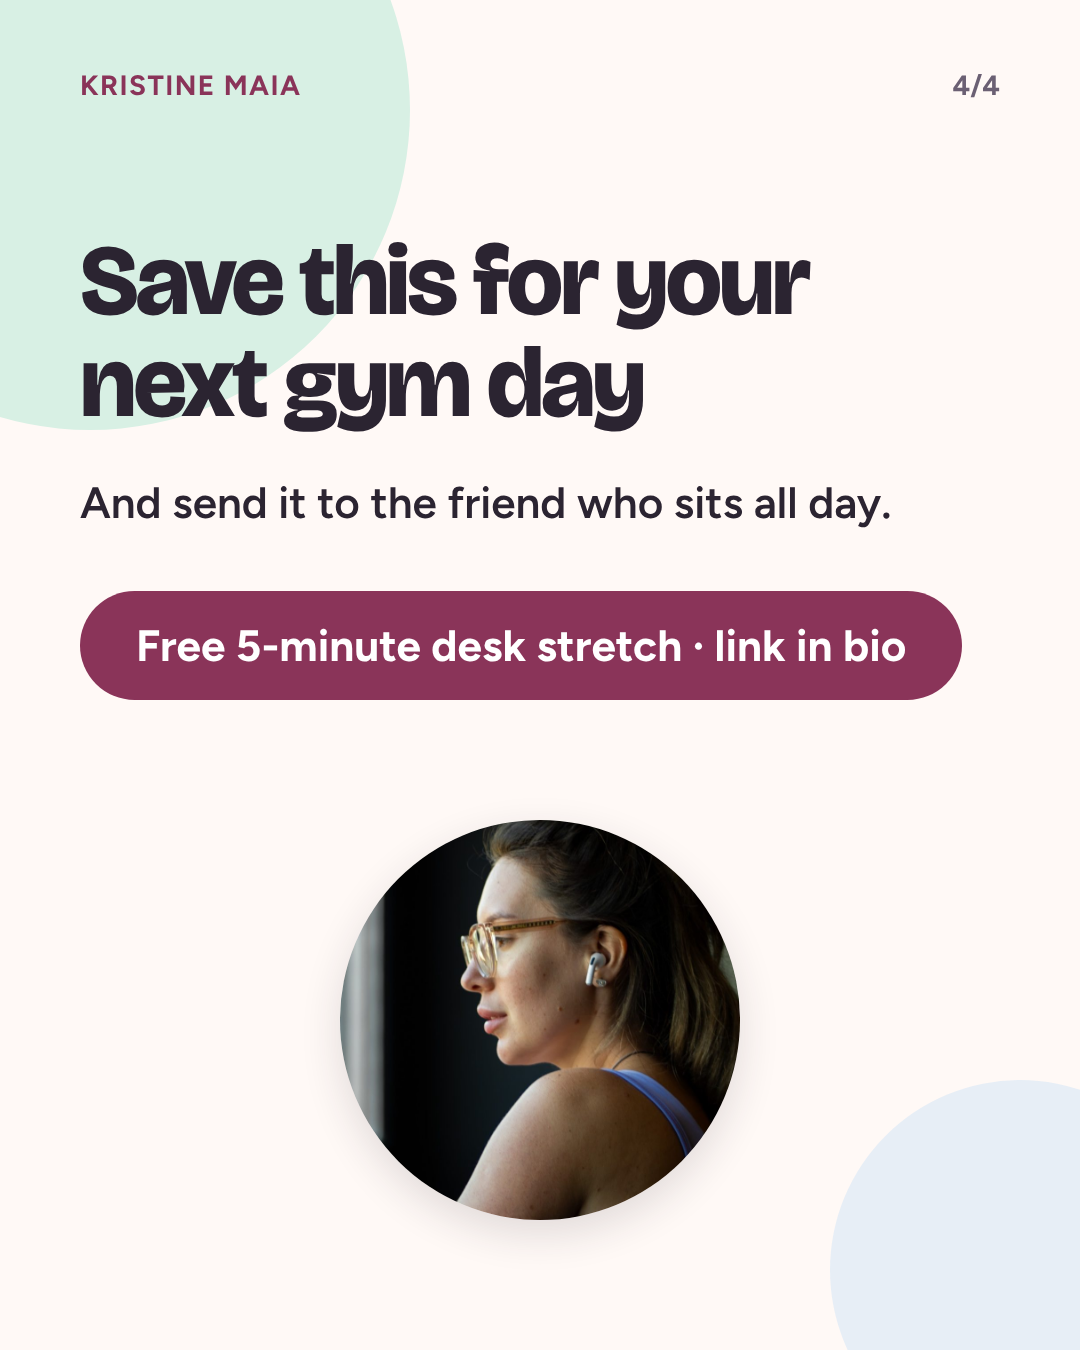
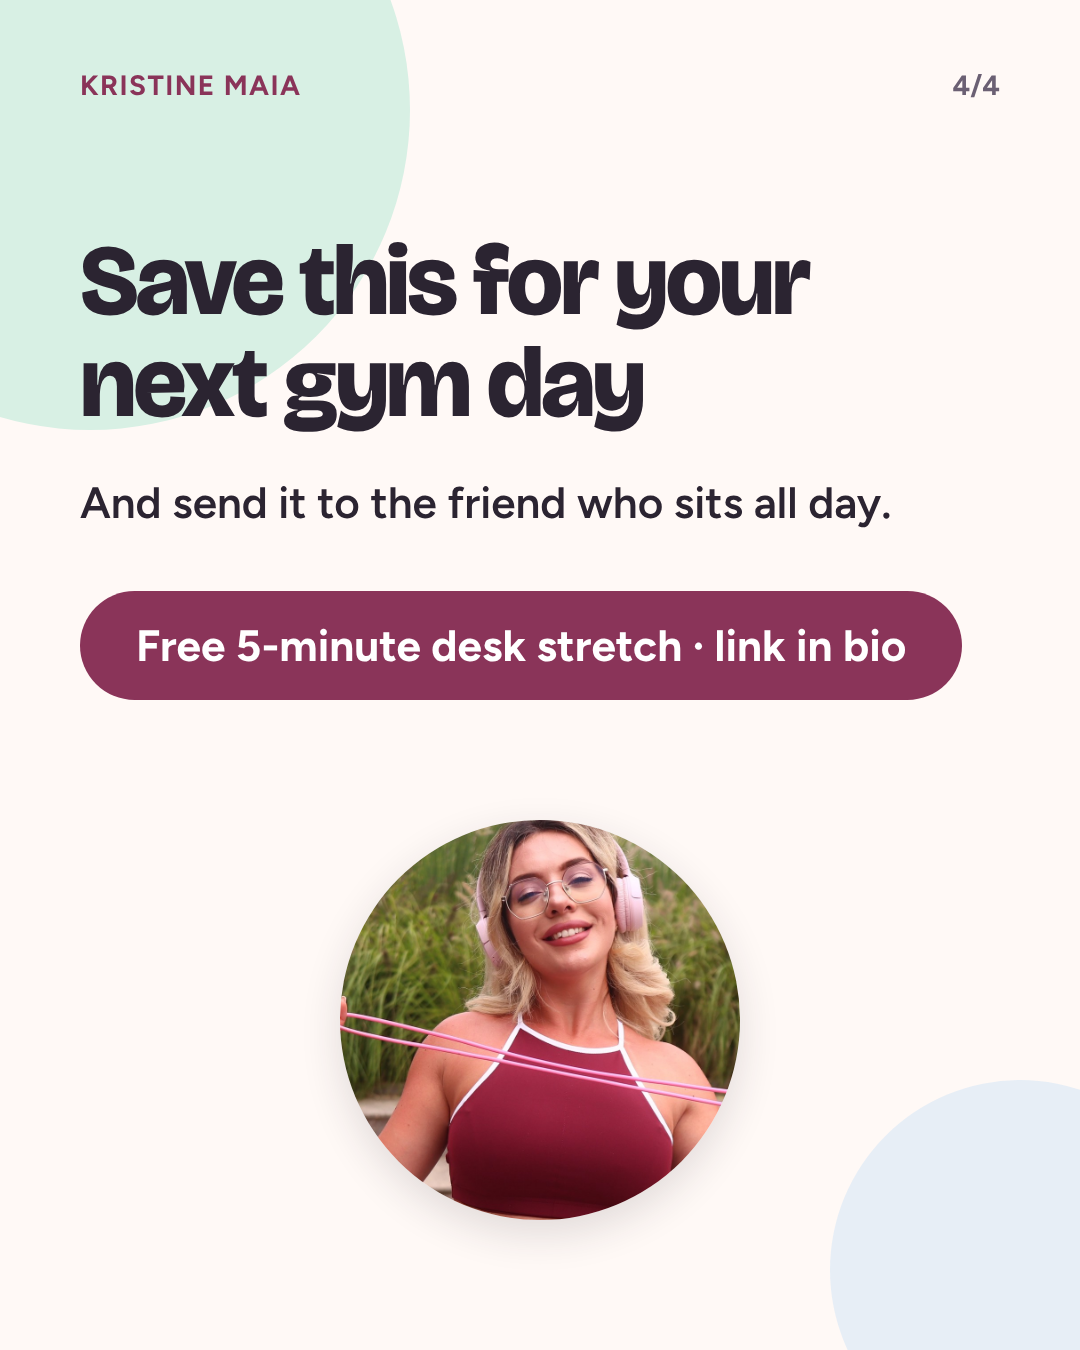
EN-G1 carousel: a different photo on each slide
Claude-Session: https://claude.ai/code/session_01AYCYtwFQ1HqKG8gwud9c92

Changed region(s): [[0.3056, 0.5911, 0.7028, 0.9022]]

diff --git a/brand/carousels-en/build_gym1.py b/brand/carousels-en/build_gym1.py
@@ -1,6 +1,6 @@
 #!/usr/bin/env python3
 """Carusel EN „2 moves for your next gym day” (G-C1), același șablon ca build_en.py, 4 slide-uri.
-Pozele: src/gym-lunge.jpg, src/gym-cobra.jpg (de la ședința foto de la sală, cu acordul fotografului).
+Pozele (câte una pe slide): src/gym-window-wide.jpg, gym-lunge.jpg, gym-cobra.jpg, gym-rope-smile.jpg (de la ședința foto de la sală, cu acordul fotografului).
 Rulezi: python3 brand/carousels-en/build_gym1.py -> out/EN-G1-gym-day-*.png"""
 import os
 HERE = os.path.dirname(os.path.abspath(__file__))
@@ -15,7 +15,7 @@ lunge, cobra = img('gym-lunge.jpg'), img('gym-cobra.jpg')
 def slides():
     s = []
     s.append(frame(1, '<div style="position:absolute;left:80px;right:80px;top:170px"><h1 style="font-size:104px">Sit all day? 2 moves for your next gym day</h1></div>'
-        '<div class="card" style="left:150px;top:610px;width:780px;height:660px"><img src="%s" style="object-position:center 30%%"></div>' % lunge, 1))
+        '<div class="card" style="left:150px;top:610px;width:780px;height:660px"><img src="%s" style="object-position:40%% center"></div>' % img('gym-window-wide.jpg'), 1))
     s.append(frame(2, '<div style="position:absolute;left:80px;right:80px;top:170px"><h2>1 · Dumbbell lunge</h2>%s</div>'
         '<div class="card" style="left:240px;top:580px;width:600px;height:660px"><img src="%s" style="object-position:center 25%%"></div><div class="foot">%s</div>'
         % (bullets(['Long step back, chest tall', 'Back knee hovers, never slams', '3 sets of 8 per leg']), lunge, DISC), 2, 'var(--blue)', 'var(--mint)'))
@@ -25,7 +25,7 @@ def slides():
     s.append(frame(4, '<div style="position:absolute;left:80px;right:80px;top:230px"><h1 style="font-size:100px">Save this for your next gym day</h1>'
         '<p style="font-size:44px;font-weight:600;margin:40px 0 60px;line-height:1.3">And send it to the friend who sits all day.</p>'
         '<div class="btn">Free 5-minute desk stretch · link in bio</div></div>'
-        '<div class="card" style="left:340px;top:820px;width:400px;height:400px;border-radius:50%%"><img src="%s" style="object-position:center 30%%"></div>' % img('gym-window.jpg'), 4, 'var(--mint)', 'var(--blue)'))
+        '<div class="card" style="left:340px;top:820px;width:400px;height:400px;border-radius:50%%"><img src="%s"></div>' % img('gym-rope-smile.jpg'), 4, 'var(--mint)', 'var(--blue)'))
     return s
 if __name__ == '__main__':
     import json, subprocess, tempfile
